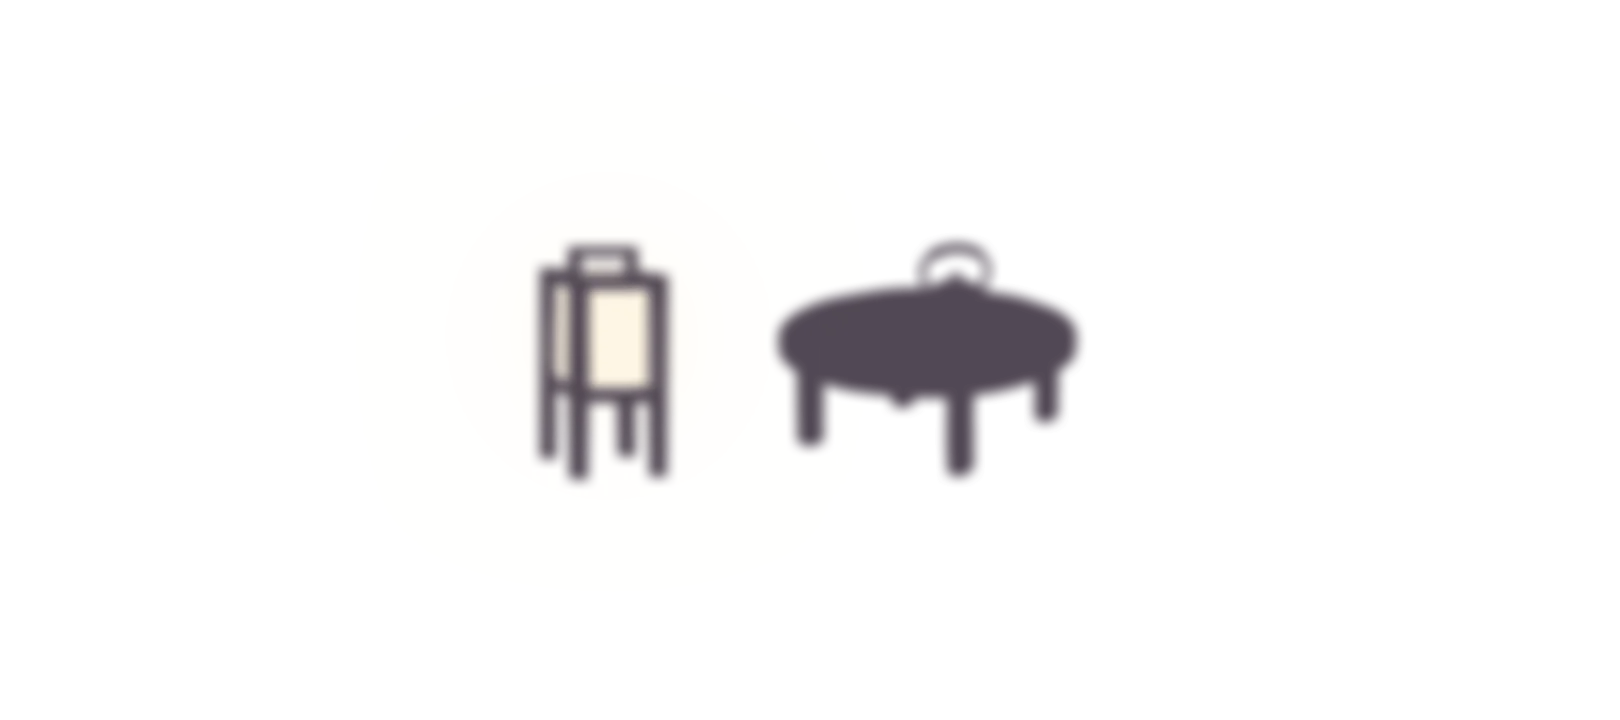
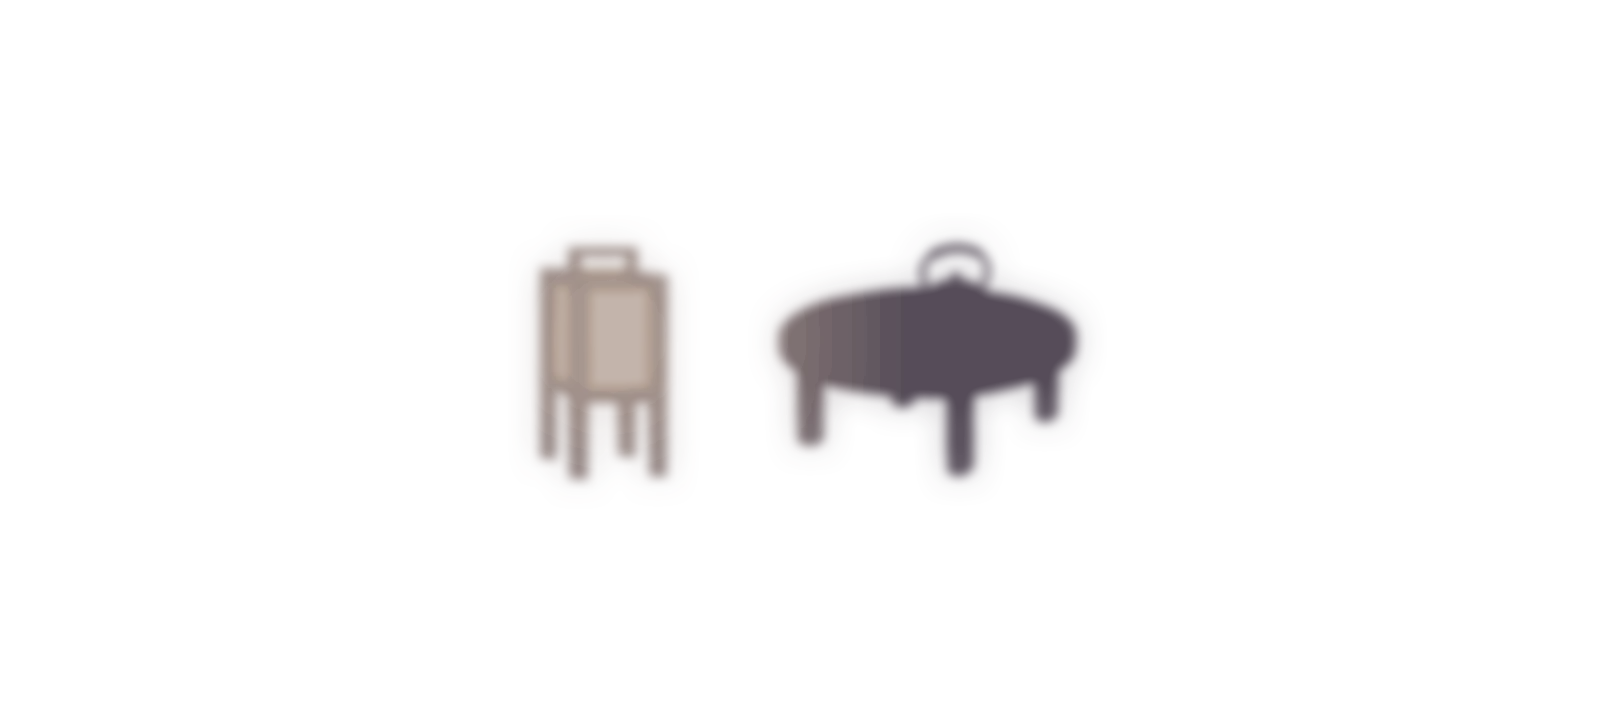
Tea room: a screen shadow only darkens, and the screens' paper lets the light through clean
The shadow recipe painted every lamp pale, which read as a hole in the shadow.
It is rewritten on one rule with fixed numbers: dark colours only, a lamp is the
same shadow made thinner, warmth near a lamp is less shadow and never added
light. The screen plate is made again from the same master and geometry: its
soft edges are ink and paper only (a thousand pale pixels had shown over the
night ground), and its veil is 0.09 where it was 0.2, so amber is amber.

Claude-Session: https://claude.ai/code/session_01H1qqxvg7NVfd4R6U8xEdiX

Changed region(s): [[0.3086, 0.3361, 0.4321, 0.6722], [0.463, 0.4278, 0.5247, 0.6111]]

diff --git a/docs/tea/gen/shared.md b/docs/tea/gen/shared.md
@@ -17,6 +17,10 @@ File names are the same. A builder who read the first version of this page needs
   above the plinth moved, so the glass's box is unchanged.
 - `tv.webp`: the same size and the same glass box. The glass's corners moved by up to 3 px.
 - All three sets have new colours (the table in the television's section) and no wood grain.
+- `screen.webp`: the same size and the same geometry. Its paper is thinner (alpha 0.09 where plain, not 0.2),
+  so the field's colour comes through clean, and the pale pixels along its ink lines are gone.
+- `shadow-example.webp`: the same size and box, a new picture. The recipe changed: a shadow only darkens.
+  A chapter's own `shadow.mjs` should be copied again from this page.
 
 ## What a `4k` generation is worth (measured, 2026-11-12)
 
@@ -46,12 +50,12 @@ costs twice a `2k` one, and two requests never return the same picture, so a com
 | File | Pixels | Bytes | Alpha | What it is |
 |---|---|---|---|---|
 | `washi.webp` | 512, 512 | 6,320 | no | the paper tile. Tiles both ways. Its mean colour is the paper colour `#F1E6D0` |
-| `screen.webp` | 1776, 2000 | 239,218 | yes | one sliding screen: cedar frame and lattice opaque, the paper see-through |
+| `screen.webp` | 1776, 2000 | 292,690 | yes | one sliding screen: cedar frame and lattice opaque, the paper see-through |
 | `sheet-shadow.webp` | 384, 384 | 4,284 | yes | the one shadow under a sheet or a slip, as a nine-slice |
 | `tv.webp` | 2254, 2048 | 147,394 | yes | the little television, three-quarter view, cut out, its glass a hole |
 | `tv-face.webp` | 2752, 2544 | 178,590 | yes | the same set seen from the front, whole, cut out, its glass a hole |
 | `tv-face-p.webp` | 1536, 2752 | 93,404 | yes | the same front picture at a phone's size, on a 9:16 canvas |
-| `shadow-example.webp` | 1620, 720 | 31,256 | yes | the worked example of a screen shadow: a lantern and a kettle |
+| `shadow-example.webp` | 1620, 720 | 22,112 | yes | the worked example of a screen shadow: a lantern and a kettle |
 
 No file is video or audio. The largest is under 1 MiB.
 
@@ -74,7 +78,7 @@ over it as a flat layer of the chapter's light colour.
 that meets the other screen at the post. The right-hand screen is the same picture mirrored (`scaleX(-1)`).
 
 - Frame, lattice bars, the rail and the board at the foot: opaque.
-- Paper: alpha 0.2 where it is plain, rising to about 0.57 in the
+- Paper: alpha 0.09 where it is plain, rising to about 0.43 in the
   soft shade a bar throws on it. Its colour is a dark plum, so paper only ever dims what is behind it. Put one
   flat field of colour behind the screen and the paper takes that colour. No blend mode is needed.
 - The stack, from the back: the field (a `background-color` on the screen's own box), then the chapter's
@@ -84,11 +88,11 @@ that meets the other screen at the post. The right-hand screen is the same pictu
 
 | Part | Across (x) | Down (y) |
 |---|---|---|
-| Outer stile (left) | 0 to 0.063 | |
-| Five panes | 0.063 to 0.936 | |
-| Meeting stile (right) | 0.936 to 1 | |
-| Top rail | | 0 to 0.053 |
-| Six rows of panes | | 0.053 to 0.844 |
+| Outer stile (left) | 0 to 0.061 | |
+| Five panes | 0.061 to 0.939 | |
+| Meeting stile (right) | 0.939 to 1 | |
+| Top rail | | 0 to 0.051 |
+| Six rows of panes | | 0.051 to 0.844 |
 | Rail under the lattice | | 0.844 to 0.886 |
 | Board at the foot | | 0.886 to 1 |
 
@@ -246,29 +250,41 @@ to 972 CSS px tall: enough to cover an 844 px screen (at 1.08) and a 932 px one 
 **The rule for the picture, so the engine needs no number of its own.** A shadow's picture is exactly three
 times as wide and three times as tall as the box of the flat it belongs to, with the object in the middle
 third each way. So if the flat's box at rest is `[x, y, w, h]`, the shadow is drawn at `[x - w, y - h, 3w, 3h]`,
-by the same projection, on both screens, between the field and the plate. The margin is where the glow dies
-away. If an object's glow or beam needs more room than that, give its flat a larger box with transparent
-margin; do not change the rule.
+by the same projection, on both screens, between the field and the plate. The margin is where the shadow dies
+away. If an object's beam needs more room than that, give its flat a larger box with transparent margin; do
+not change the rule.
 
-**What a shadow is made of.**
+**A shadow only ever darkens the paper.** The first version put a pale patch where the lantern's paper is, and
+on the screen it read as a hole cut in the shadow. A shadow on paper is one soft dark shape. So the picture
+holds dark colours only, and what varies is how dense they are. That also makes it right on any field: amber,
+cold blue, pale. The script refuses to write a picture whose lightest colour is brighter than a dark brown.
 
-1. The silhouette: the object's own alpha, so the real object is uncovered in exactly the shadow's outline. It
-   is blurred by 0.4% of the picture's width, as a shadow through paper is, in ink plum `#261A2A` at 80%.
-2. The object's own light: the parts of the object that are its lamp (the lantern's paper, the television's
-   glass, the projector's lens) are not dark. They are pale (`#FFF4DE` for a warm lamp, `#EEF3FF` for the
-   television) and lie under the silhouette, so the lantern's bars cross its lit paper.
-3. The glow: the lit parts blurred at 3% and at 9% of the picture's width, added together, at most 80%. It is
-   the only light on the screens, and there is no second one.
-4. The window: every alpha is multiplied by a smooth ramp that is 0 at each edge and 1 from a tenth of the way
-   in. This is what makes rule 3 of the screens true, and the script refuses to write a file whose outermost
-   rows or columns are not all 0.
+**What a shadow is made of.** Every number is fixed in the script, so that twelve painters' shadows match.
+
+1. **The silhouette** is the object's own alpha, lamp and all, as one shape, so the real object is uncovered in
+   exactly the shadow's outline. It is blurred by 0.35% of the picture's width, as a shadow through paper is,
+   with a fainter second edge at 1.2% (its penumbra). Colour: ink plum `#261A2A`. Density: 0.78.
+2. **A lamp is the same shadow, thinner, never a hole.** The parts of the object that are its lamp are named in
+   the config (`lit`). A paper shade lit from inside (a lantern) has density 0.40. A lamp that shines straight
+   at the paper (a television's tube, a lens: `"tube": true`) has 0.13, which is what "its tube glowing" means
+   here: the tube is nearly the field's own light, with the dark case round it.
+3. **Warmth near the lamp.** The shadow of whatever stands beside a lamp is thinner and warmer on the lamp's
+   side: its density falls by up to a third, and its colour moves from ink plum toward the lamp's colour (a warm
+   umber `#6A452C`, or for a cold lamp `"lamp": "#3B4868"`), over a distance of 9% of the picture's width. This
+   is the only light in the picture, and it is made of less shadow, not of added light.
+4. **A beam** (the projector) is also made of less shadow. `"shade": 0.16` lays a faint dusk round the object,
+   and a part marked `"clear": true` (a white wedge from the lens) is where the dusk is left out.
+5. **The window.** Every alpha is multiplied by a smooth ramp that is 0 at each edge and 1 from a tenth of the
+   way in. This is what makes rule 3 of the screens true, and the script refuses to write a file whose
+   outermost rows or columns are not all 0.
 
 **The template.** One script makes any chapter's shadow from its own cut-outs. Copy it into the chapter's tools
 (`scripts/tools/tea/<id>/shadow.mjs`), write the small config beside it, and run it with the repo's `sharp`.
 
 ```js
 // A screen shadow from an object's own cut-out: node shadow.mjs <config.json> <out.webp>
-// The picture is three times the object's box each way, the object in the middle third. Alpha is 0 on all four edges.
+// One soft dark silhouette. The picture is three times the object's box each way, the object in the middle third.
+// It only ever darkens the paper: no pixel of it is pale. Alpha is 0 on all four edges.
 import fs from 'node:fs/promises';
 import sharp from 'sharp';
 
@@ -278,71 +294,95 @@ const px = cfg.px ?? 1.2;                                   // pixels for each b
 const [bw, bh] = cfg.box;                                   // the object's box, in board units
 const W = Math.round(bw * 3 * px), H = Math.round(bh * 3 * px);
 const hex = (h) => [1, 3, 5].map((i) => parseInt(h.slice(i, i + 2), 16));
-const INK = hex(cfg.ink ?? '#261A2A'), GLOW = hex(cfg.glow ?? '#FFF4DE');
+const INK = hex('#261A2A');                                 // the shadow: ink plum
+const LAMP = hex(cfg.lamp ?? '#6A452C');                    // the shadow where a lamp warms it (a cold lamp: '#3B4868')
+const DARK = 0.78, THIN = 0.40, TUBE = 0.13, WARM = 0.34;   // fixed strengths: the object, a paper shade lit from inside, a tube or a lens
+const SHADE = cfg.shade ?? 0;                               // the dusk a beam cuts through (a projector): 0.16, else none
 const smooth = (lo, hi, x) => { const t = Math.min(1, Math.max(0, (x - lo) / (hi - lo))); return t * t * (3 - 2 * t); };
 
-const solid = new Float32Array(W * H), lit = new Float32Array(W * H);
+const solid = new Float32Array(W * H), lit = new Float32Array(W * H), tube = new Float32Array(W * H), clear = new Float32Array(W * H);
 for (const part of cfg.parts) {                             // each part: its cut-out and where it stands in the box
   const [x, y, w, h] = part.at.map((v) => Math.round(v * px));
   const { data } = await sharp(part.src).ensureAlpha().resize(w, h, { fit: 'fill' }).raw().toBuffer({ resolveWithObject: true });
-  const mask = part.lit && typeof part.lit === 'string'
+  const mask = typeof part.lit === 'string'
     ? await sharp(part.lit).resize(w, h, { fit: 'fill' }).greyscale().extractChannel(0).raw().toBuffer() : null;
   for (let j = 0; j < h; j++) for (let i = 0; i < w; i++) {
     const s = (j * w + i) * 4, X = Math.round(bw * px) + x + i, Y = Math.round(bh * px) + y + j;
+    if (X < 0 || Y < 0 || X >= W || Y >= H) continue;
     const a = data[s + 3] / 255, luma = 0.299 * data[s] + 0.587 * data[s + 1] + 0.114 * data[s + 2];
     const l = mask ? mask[j * w + i] / 255 : (part.lit ? smooth(part.lit - 25, part.lit + 25, luma) : 0);
     const k = Y * W + X;
-    solid[k] = Math.max(solid[k], a * (1 - l)); lit[k] = Math.max(lit[k], a * l);
+    if (part.clear) { clear[k] = Math.max(clear[k], a); continue; }       // a beam: where the dusk is left out
+    solid[k] = Math.max(solid[k], a); lit[k] = Math.max(lit[k], a * l);
+    if (part.tube) tube[k] = Math.max(tube[k], a * l);                   // this lamp shines straight at the paper
   }
 }
 const blur = async (f, sigma) => {                          // a blurred copy of one channel
-  const b = Buffer.from(Uint8Array.from(f, (v) => Math.round(v * 255)));
+  const b = Buffer.from(Uint8Array.from(f, (v) => Math.round(Math.min(1, v) * 255)));
   const r = await sharp(b, { raw: { width: W, height: H, channels: 1 } }).blur(Math.max(0.3, sigma)).extractChannel(0).raw().toBuffer();
   return Float32Array.from(r, (v) => v / 255);
 };
-const soft = await blur(solid, W * 0.004);                  // the silhouette, a little soft, as through paper
-const core = await blur(lit, W * 0.004);                    // the object's own light
-const near = await blur(lit, W * 0.03), far = await blur(lit, W * 0.09);
+const edge = await blur(solid, W * 0.0035);                 // the silhouette, a little soft, as through paper
+const pen = await blur(solid, W * 0.012);                   // and its penumbra
+const lamp = await blur(lit, W * 0.0035);                   // the lamp's own part of the silhouette
+const tubeS = await blur(tube, W * 0.0035);
+const near = await blur(lit, W * 0.09);                     // the lamp's warmth, which reaches the things beside it
+const dusk = SHADE ? await blur(solid, W * 0.11) : null, beam = SHADE ? await blur(clear, W * 0.006) : null;
+let nmax = 0; for (const v of near) nmax = Math.max(nmax, v);
 
 const rgba = Buffer.alloc(W * H * 4);
+let lumaMax = 0;
 for (let Y = 0; Y < H; Y++) for (let X = 0; X < W; X++) {
   const k = Y * W + X;
-  const edge = smooth(0, 0.1, Math.min(X, W - 1 - X) / W) * smooth(0, 0.1, Math.min(Y, H - 1 - Y) / H);
-  const g = Math.min(1, 0.92 * core[k] + 0.9 * near[k] + 1.6 * far[k]) * (cfg.glowStrength ?? 0.8);
-  const d = Math.min(1, soft[k]) * (cfg.inkStrength ?? 0.8);
-  const a = (1 - (1 - g) * (1 - d)) * edge;                 // the dark silhouette lies over the glow
-  const mix = d + g * (1 - d) > 0 ? d / (d + g * (1 - d)) : 0;
-  for (let c = 0; c < 3; c++) rgba[k * 4 + c] = Math.round(INK[c] * mix + GLOW[c] * (1 - mix));
-  rgba[k * 4 + 3] = Math.round(a * 255);
+  const win = smooth(0, 0.1, Math.min(X, W - 1 - X) / W) * smooth(0, 0.1, Math.min(Y, H - 1 - Y) / H);
+  const warm = nmax ? near[k] / nmax : 0;                   // 1 at the lamp, falling away round it
+  const body = Math.min(1, 0.8 * edge[k] + 0.3 * pen[k]);   // the whole object, lamp included: one shape
+  const thin = body > 0 ? Math.min(1, lamp[k] / Math.max(body, 0.05)) : 0;
+  const isTube = lamp[k] > 0.02 ? Math.min(1, tubeS[k] / lamp[k]) : 0;
+  const lampA = THIN + (TUBE - THIN) * isTube;
+  let a = body * (DARK - (DARK - lampA) * thin) * (1 - WARM * warm * (1 - thin));
+  if (SHADE) a = 1 - (1 - a) * (1 - SHADE * Math.min(1, dusk[k] * 3.2) * (1 - beam[k]));
+  const t = Math.min(1, 0.75 * warm + 0.6 * thin);
+  const c = [0, 1, 2].map((i) => INK[i] + (LAMP[i] - INK[i]) * t);
+  for (let i = 0; i < 3; i++) rgba[k * 4 + i] = Math.round(c[i]);
+  rgba[k * 4 + 3] = Math.round(a * win * 255);
+  if (rgba[k * 4 + 3]) lumaMax = Math.max(lumaMax, 0.299 * c[0] + 0.587 * c[1] + 0.114 * c[2]);
 }
 for (let X = 0; X < W; X++) if (rgba[X * 4 + 3] || rgba[((H - 1) * W + X) * 4 + 3]) throw new Error('alpha on the top or bottom edge');
 for (let Y = 0; Y < H; Y++) if (rgba[Y * W * 4 + 3] || rgba[(Y * W + W - 1) * 4 + 3]) throw new Error('alpha on a side edge');
-await sharp(rgba, { raw: { width: W, height: H, channels: 4 } }).webp({ quality: 86, alphaQuality: 90, effort: 6 }).toFile(out);
+if (lumaMax > 100) throw new Error('a shadow may only darken: its lightest colour is ' + lumaMax.toFixed(0));
+await sharp(rgba, { raw: { width: W, height: H, channels: 4 } }).webp({ quality: 88, alphaQuality: 92, effort: 6 }).toFile(out);
 console.log(out, W + 'x' + H, 'object box in the picture:', [W / 3, H / 3, W / 3, H / 3].map(Math.round).join(', '));
 ```
 
-The config names the box of the flat in board units, how many pixels to give each unit, the glow's colour, and
-each part with the place it has inside the box. A part's `lit` is either a luminance (pixels of the cut-out
-brighter than it are the object's lamp) or the path of a mask picture, white where the lamp is.
+The config names the box of the flat in board units, how many pixels to give each unit, and each part with the
+place it has inside the box (`at`: x, y, width, height, and a part may reach outside the box). A part's `lit` is
+either a luminance (pixels of the cut-out brighter than it are the object's lamp) or the path of a mask picture,
+white where the lamp is. Three configs, one for each kind of object the brief names:
 
 ```json
-{
-  "box": [450, 200],
-  "px": 1.2,
-  "glow": "#FFF4DE",
-  "parts": [
-    { "src": "lantern.png", "at": [0, 6, 107, 194], "lit": 150 },
-    { "src": "kettle.png", "at": [196, 0, 254, 200] }
-  ]
-}
+{ "box": [450, 200], "px": 1.2,
+  "parts": [ { "src": "lantern.png", "at": [0, 6, 107, 194], "lit": 150 },
+             { "src": "table-and-kettle.png", "at": [196, 0, 254, 200] } ] }
+
+{ "box": [260, 240], "px": 2.0, "lamp": "#3B4868",
+  "parts": [ { "src": "set-with-its-glass-filled.png", "at": [0, 0, 260, 240], "lit": "glass-mask.png", "tube": true } ] }
+
+{ "box": [150, 245], "px": 2.4, "shade": 0.16,
+  "parts": [ { "src": "projector.png", "at": [0, 0, 150, 245] },
+             { "src": "beam-wedge.png", "at": [140, 59, 160, 120], "clear": true } ] }
 ```
 
-**The worked example** is `shadow-example.webp`, made by exactly that script and that config: a floor lantern
-and a low table with its kettle, standing together as one group 450 by 200 board units. The lantern was cut
-from look B's room plate and the table is look B's own prop, both read from the frozen copies. The picture is
-1620 x 720, the group stands in its middle third (x 540 to 1080, y 240 to 480), and its alpha is 0 on all four
-edges. It is an example and a placeholder for the stub. The chapter that owns the lantern makes its own from
-its own flats.
+For the television the cut-out given to the script has its glass filled in (alpha 1 in the hole), because the
+shadow is of the whole set, and the mask says which part of it is the tube.
+
+**The worked example** is `shadow-example.webp`, made by exactly that script and the first config: a floor
+lantern and a low table with its kettle, standing together as one group 450 by 200 board units. The lantern was
+cut from look B's room plate and the table is look B's own prop, both read from the frozen copies. The picture
+is 1620 x 720, the group stands in its middle third (x 540 to 1080, y 240 to 480), its alpha is 0 on all four
+edges and at most 199 of 255. It is an example and a placeholder for the stub.
+The chapter that owns the lantern makes its own from its own flats. The other two configs were run on the
+painted set and on look B's projector for the rounds' sheets, and are not shipped.
 
 ## The rounds
 
@@ -383,9 +423,23 @@ machine restart). The paper, the screens and the shadow are answered in the roun
      kept a rim of the magenta ground it was cut from: the ink is `21, 14, 18` and the rim is gone.
 3. **"The glass."** `tv-face.webp`'s glass measures 1703 px of 2752. The first version's hole had a fault the
    sheet did not show: along the glass's right edge the key colour had run into the paint, so the ink line was
-   green and thin there, broken for about 250 px near the lower corner, and the cream beside it had a green
+   green and thin there, broken for a stretch above the lower corner, and the cream beside it had a green
    cast 60 px wide. The cast is taken out of the cream, and one unbroken ink line is now drawn round the whole
    hole (at its thinnest 11 px on `tv-face.webp`). The build refuses a file with a gap in that line.
+4. **"The shadow example: the lantern's paper shows as a pale rectangle, which reads as a hole."** True, and it
+   was the recipe's fault, not the example's: it painted every lamp pale. The recipe is rewritten on one rule,
+   a shadow only darkens, with fixed numbers (the section above). The lantern is now one warm-dark shape whose
+   shade is thinner than its frame, the table beside it is thinner and warmer on the lantern's side, and no
+   pixel of the picture is pale. The same script was run for the television (its tube nearly the field's own
+   blue inside a dark case) and for the projector and its beam, to see that one recipe carries all three.
+5. **"The screens."** The lattice holds. Two faults were found in the plate when it was drawn by a browser with
+   this page's own CSS. Over a dark field (the house closing) about a thousand pale pixels showed along the
+   ink lines: the soft edge between paper and ink had been left as opaque grey. And the paper's plum veil
+   (alpha 0.2) took a fifth of the light out of every field, so lantern amber came out tan and the pale light
+   came out grey-beige beside the room's own lamp. The plate was made again from the same master with the
+   same geometry: the paper is cut pane by pane at the master's size, its soft edge is ink and paper only (the
+   script counts pale pixels over the night ground and refuses any), and the veil is 0.09. The cedar is
+   `rgb(64, 39, 41)` in every light, because wood is opaque. The sizes are checked in the screens' round.
 
 ## Generation log
 
